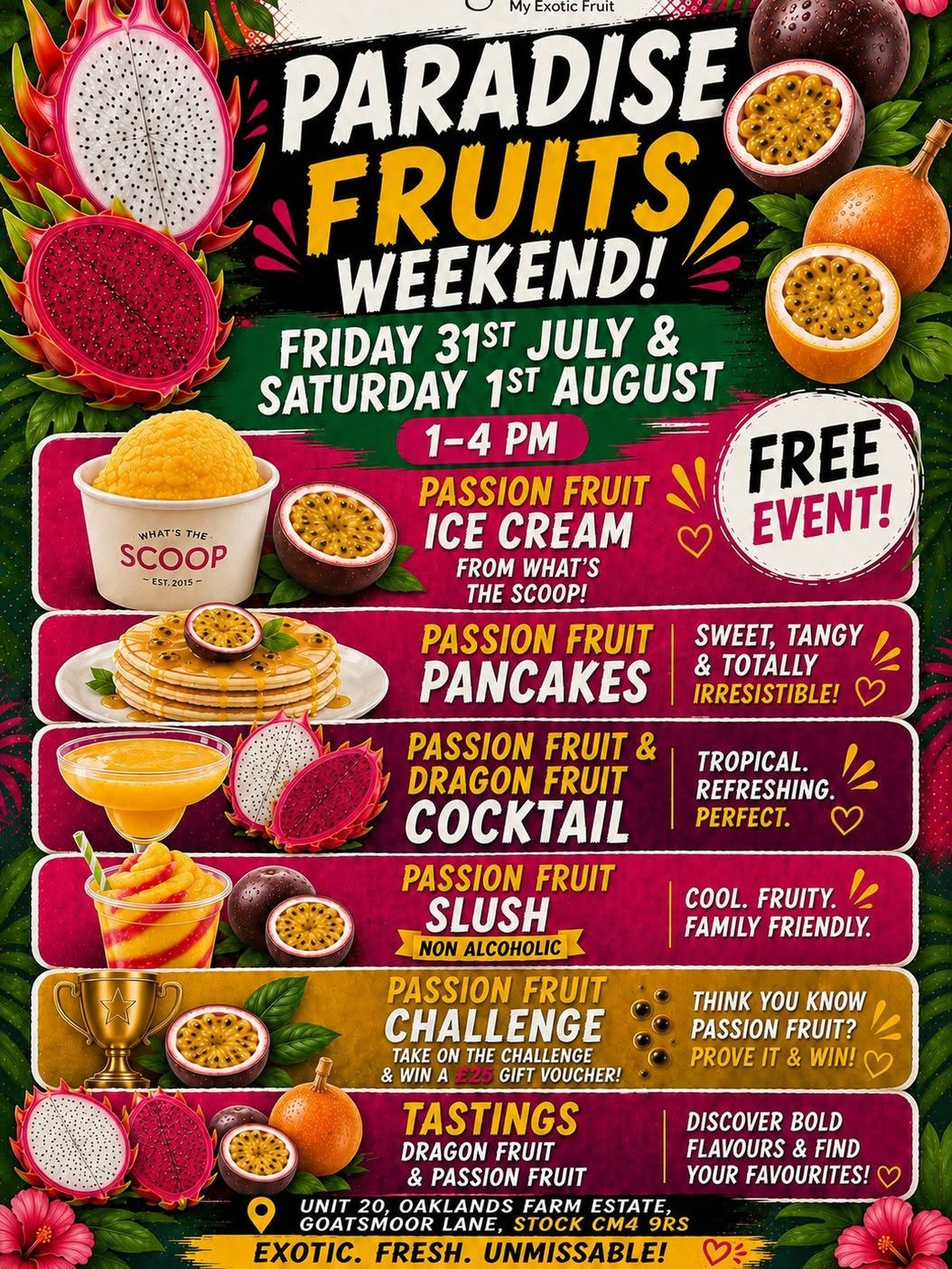
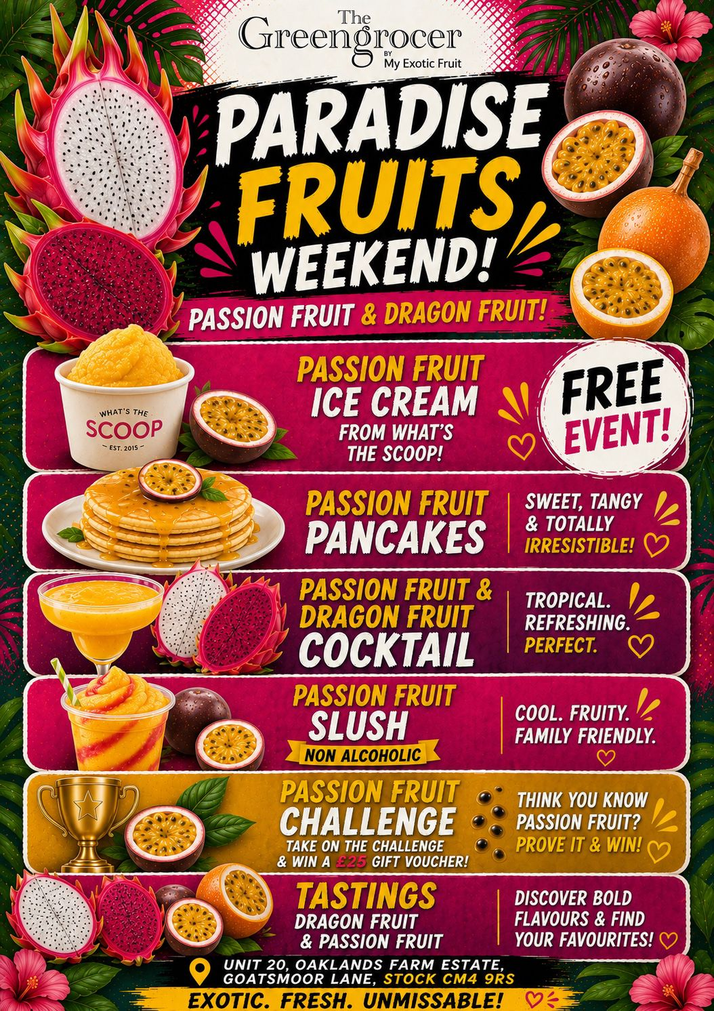
chore: add tawk.to chore: found uncropped events posters

diff --git a/docs/global-style/footer.js b/docs/global-style/footer.js
@@ -1,0 +1,16 @@
+// tawk.to script!
+var Tawk_API=Tawk_API||{}, Tawk_LoadStart=new Date();
+(function(){
+    var s1=document.createElement("script"),s0=document.getElementsByTagName("script")[0];
+    s1.async=true;
+    s1.src='https://embed.tawk.to/5c865d4cc37db86fcfcd2077/1jshgfl56';
+    s1.charset='UTF-8';
+    s1.setAttribute('crossorigin','*');
+    s0.parentNode.insertBefore(s1,s0);
+})();
+
+Tawk_API.onLoad = function () {
+    Tawk_API.setAttributes({
+        site: "The Greengrocer"
+    });
+};

diff --git a/docs/questions/index.html b/docs/questions/index.html
@@ -446,5 +446,6 @@
 
     <script src="../global-style/header.js"></script>
     <script src="./index.js"></script>
+    <script src="../global-style/footer.js"></script>
 </main>
 </body>

diff --git a/docs/index.html b/docs/index.html
@@ -374,5 +374,6 @@
 
     <script src="global-style/header.js"></script>
     <script src="events/index.js"></script>
+    <script src="global-style/footer.js"></script>
 </body>
 </html>

diff --git a/docs/events/index.html b/docs/events/index.html
@@ -297,5 +297,6 @@
 
     <script src="../global-style/header.js"></script>
     <script src="index.js"></script>
+    <script src="../global-style/footer.js"></script>
 </main>
 </body>

diff --git a/docs/chocolate/index.html b/docs/chocolate/index.html
@@ -293,5 +293,6 @@
     </footer>
 
     <script src="../global-style/header.js"></script>
+    <script src="../global-style/footer.js"></script>
 </main>
 </body>

diff --git a/docs/exotic-fruits/index.html b/docs/exotic-fruits/index.html
@@ -667,5 +667,6 @@
     </footer>
 
     <script src="../global-style/header.js"></script>
+    <script src="../global-style/footer.js"></script>
 </main>
 </body>

diff --git a/docs/japanese-fruits/index.html b/docs/japanese-fruits/index.html
@@ -719,5 +719,6 @@
     </footer>
 
     <script src="../global-style/header.js"></script>
+    <script src="../global-style/footer.js"></script>
 </main>
 </body>

diff --git a/docs/organic-produce/index.html b/docs/organic-produce/index.html
@@ -457,5 +457,6 @@
     </footer>
 
     <script src="../global-style/header.js"></script>
+    <script src="../global-style/footer.js"></script>
 </main>
 </body>
